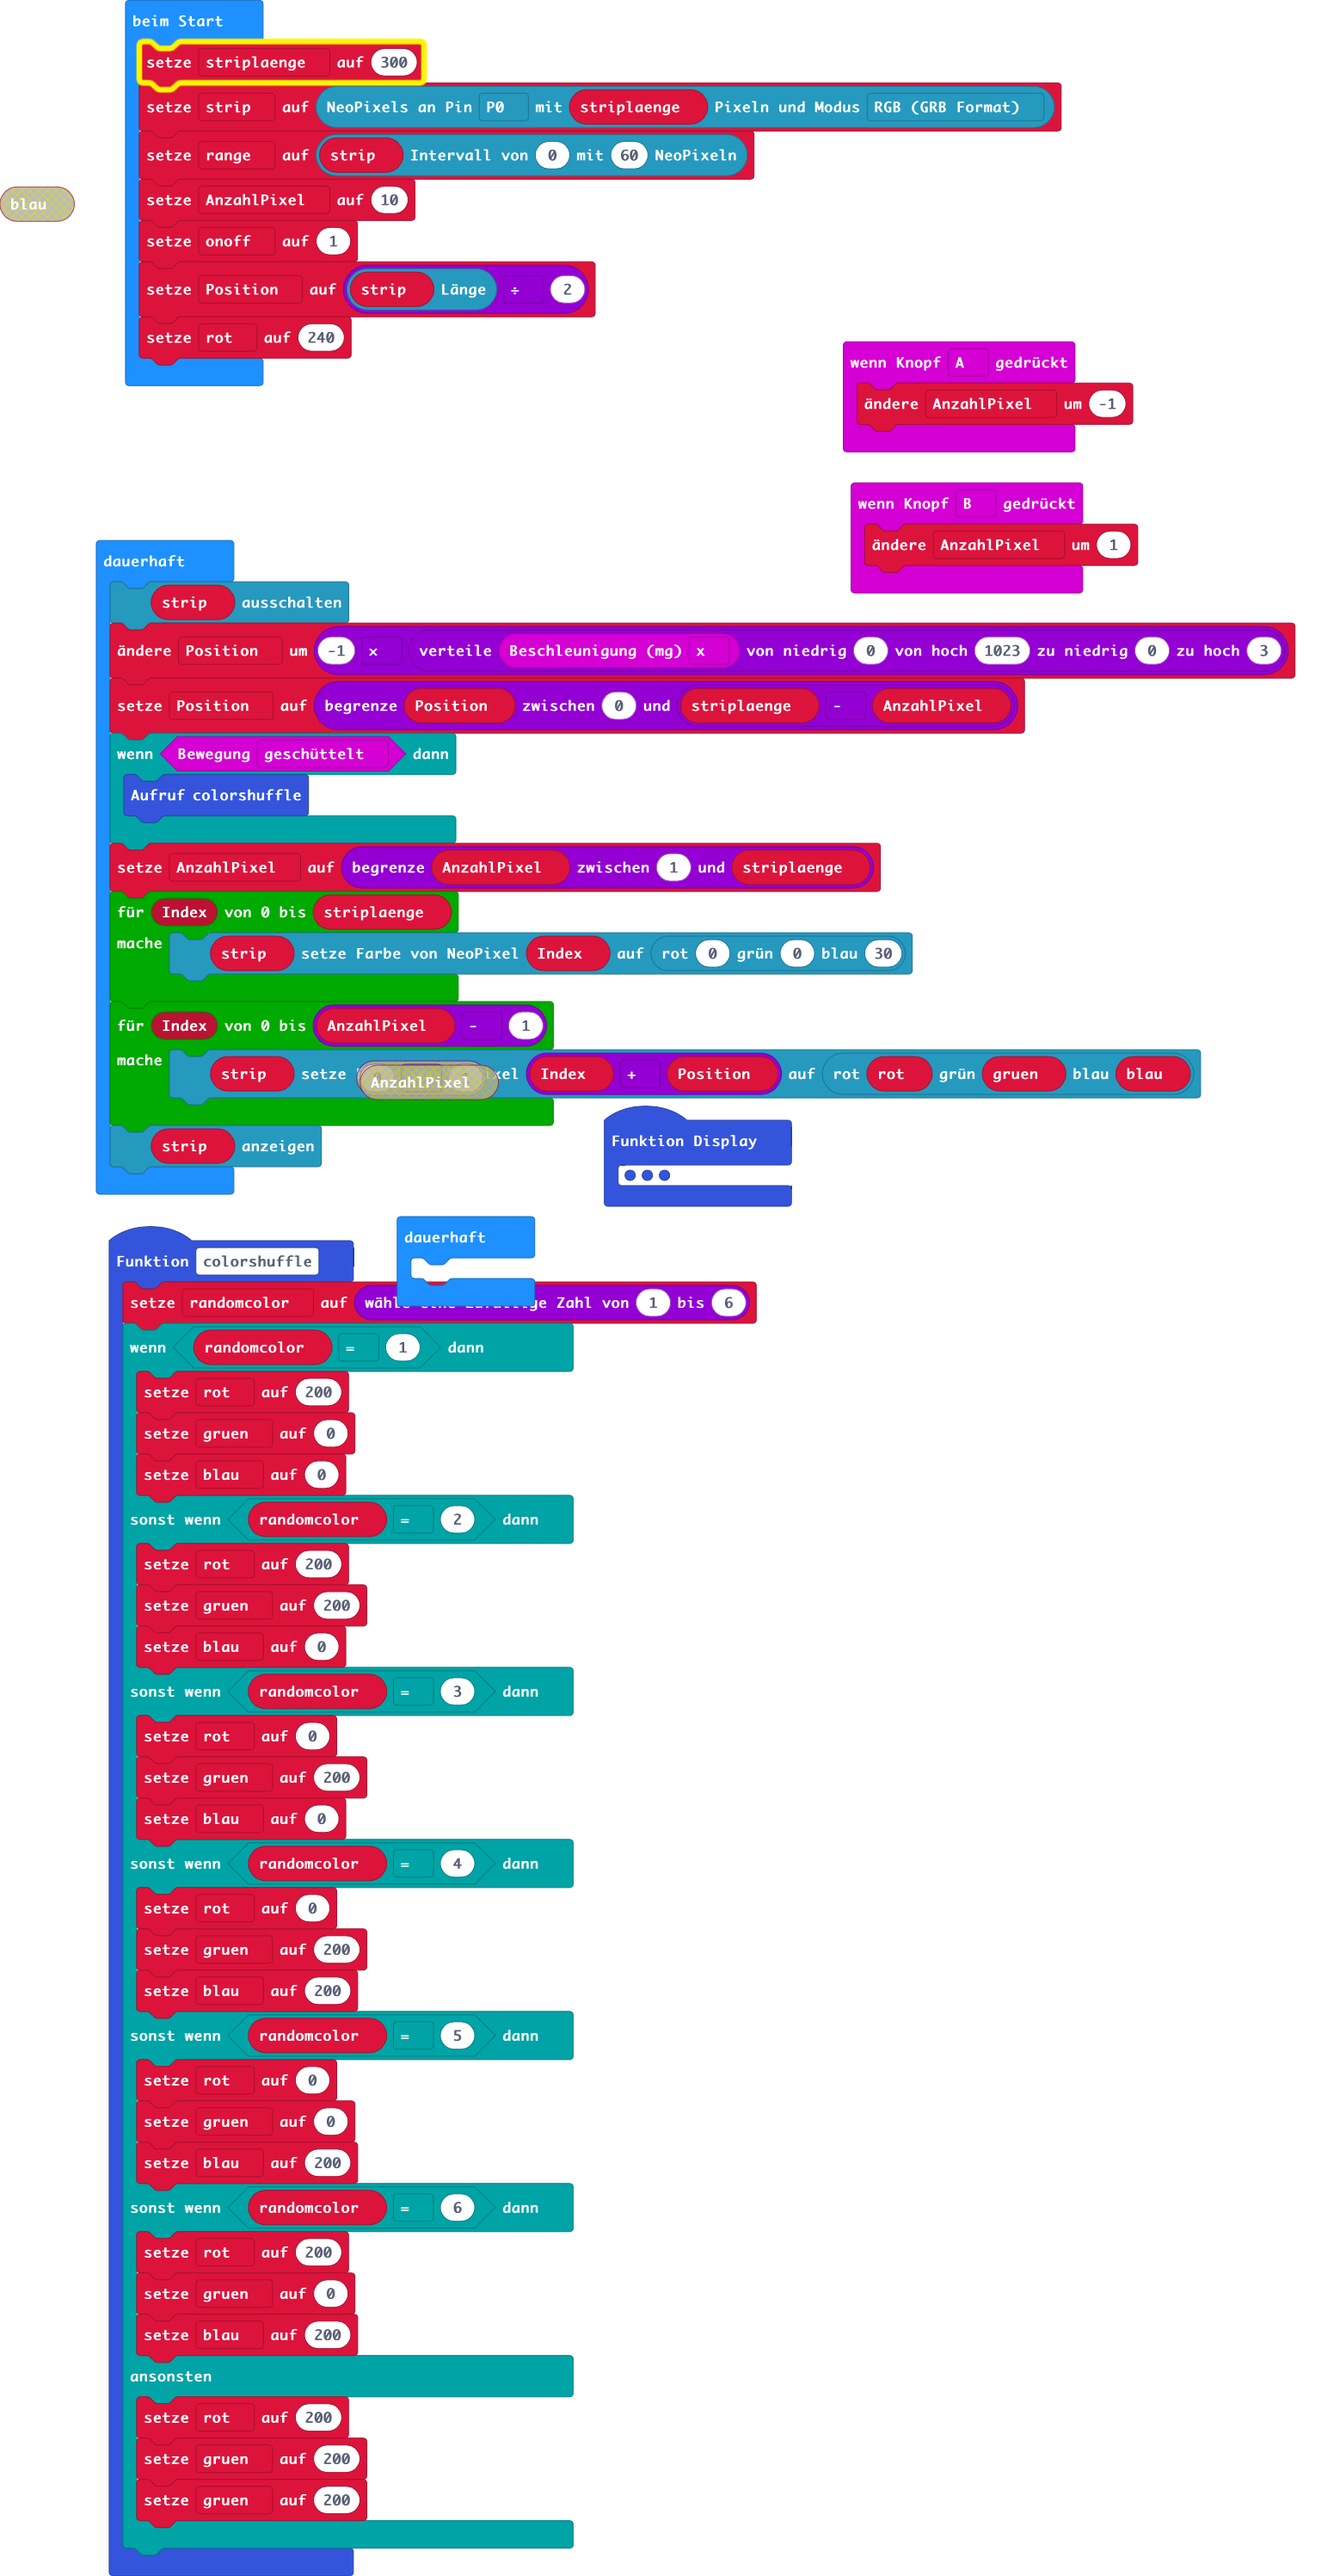
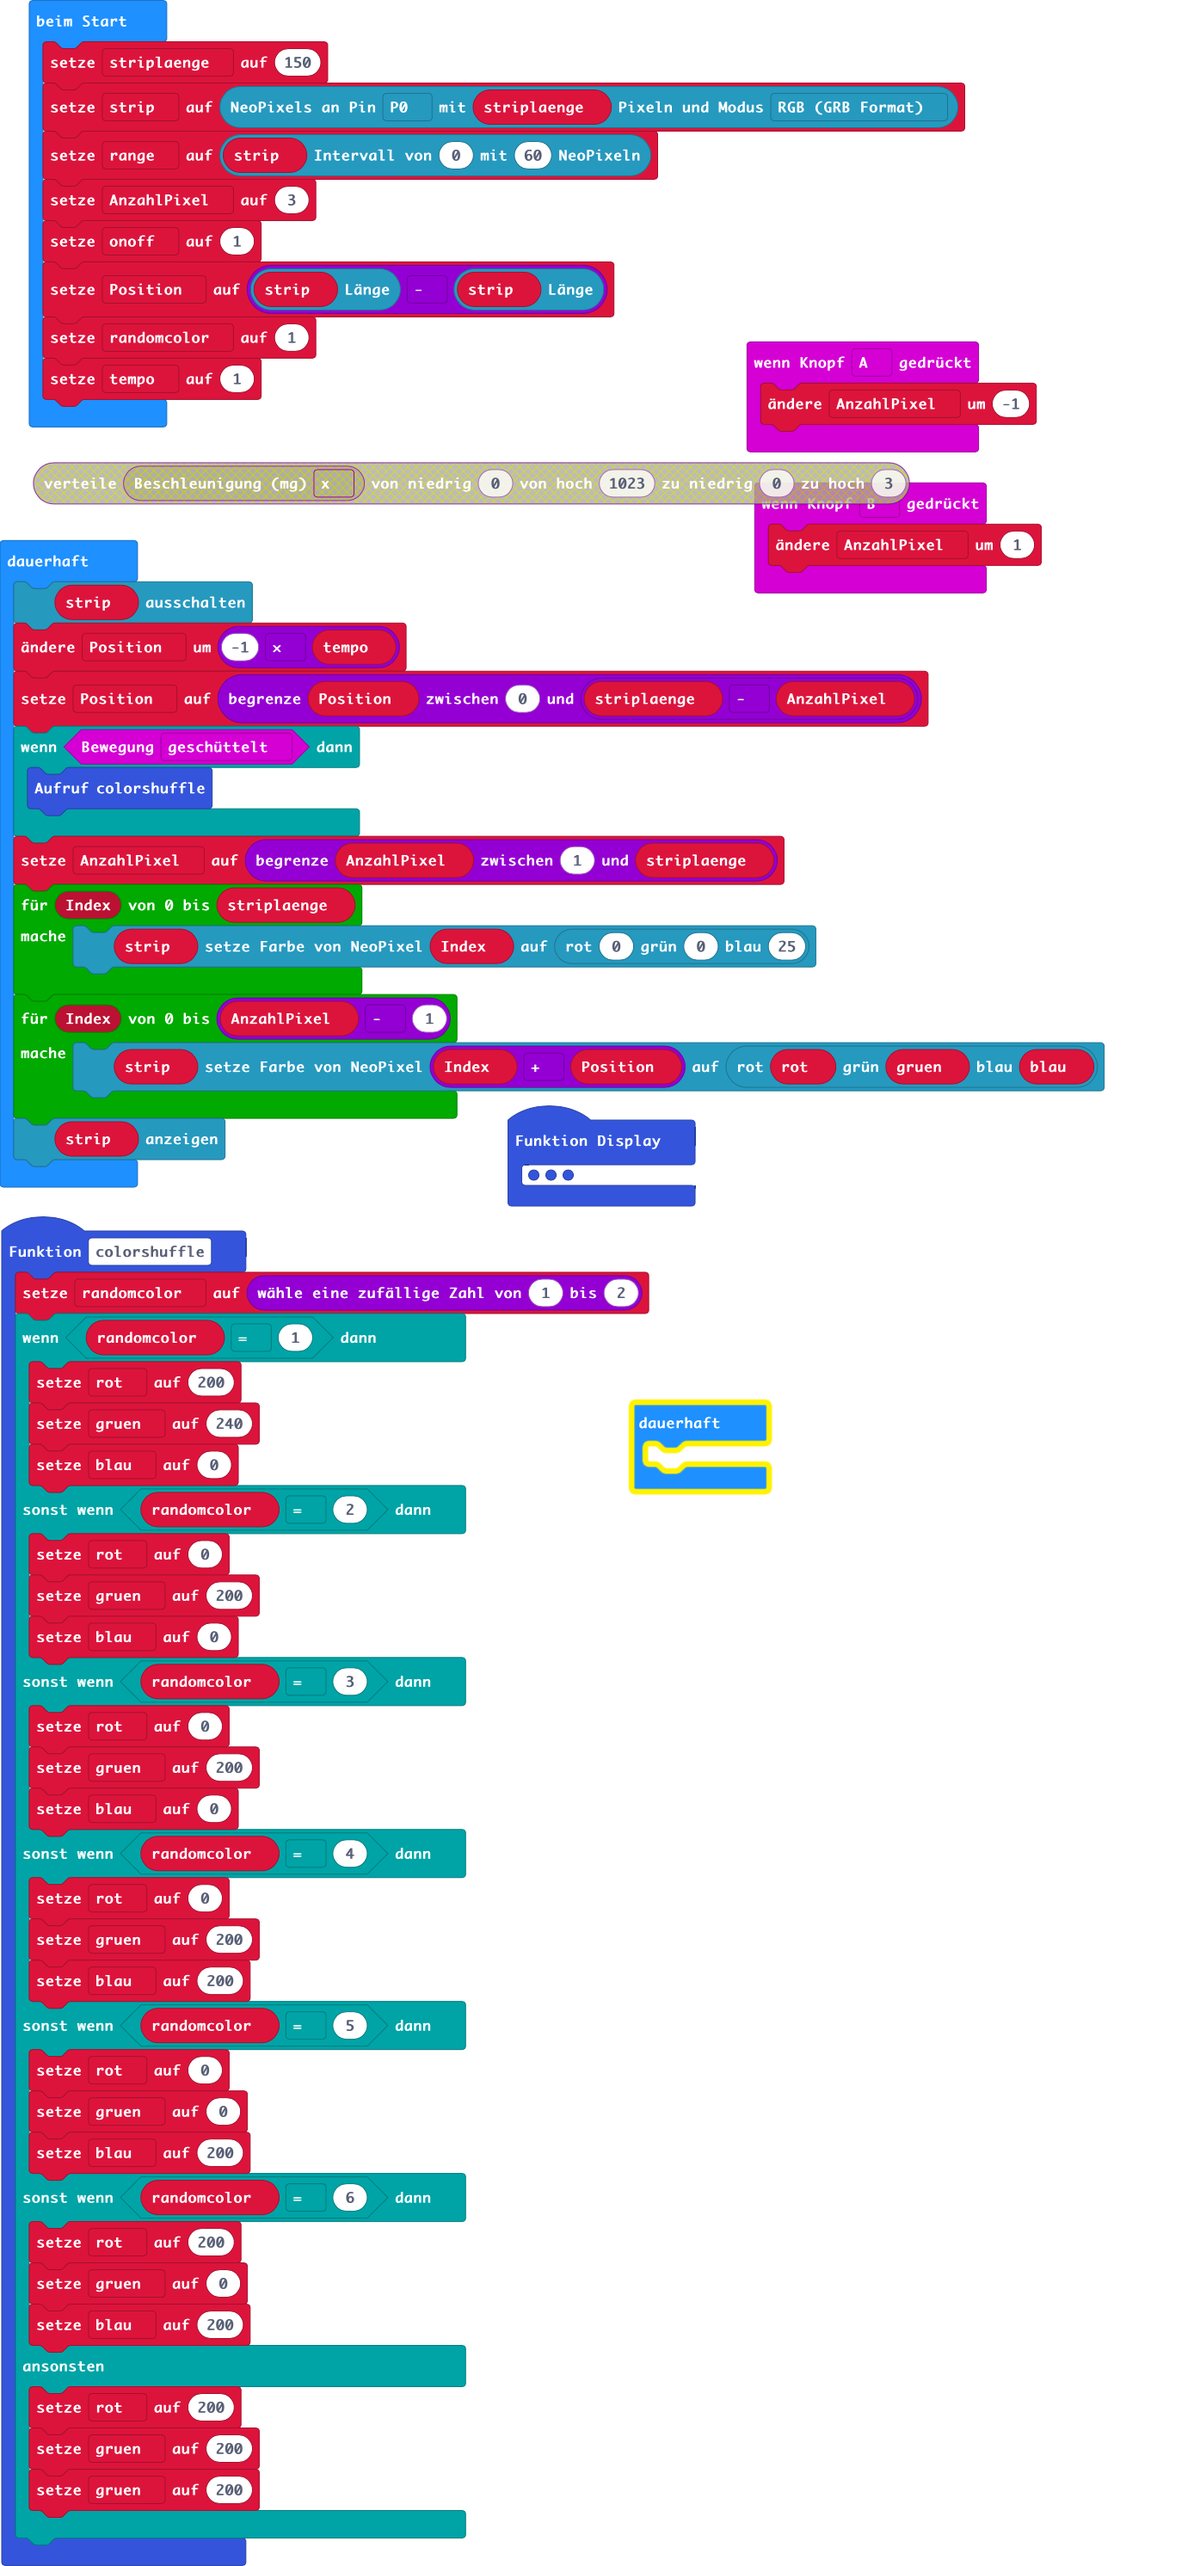
Aktualisiere pxt.json, main.blocks, main.ts

Changed region(s): [[0.0, 0.0, 0.9914, 1.0], [0.3718, 0.9665, 0.4337, 0.9977], [0.3718, 0.9041, 0.4337, 0.9353]]

diff --git a/main.ts b/main.ts
@@ -50,13 +50,13 @@ input.onButtonPressed(Button.B, function () {
     AnzahlPixel += 1
 })
 function colorshuffle () {
-    randomcolor = randint(1, 6)
+    randomcolor = randint(1, 2)
     if (randomcolor == 1) {
         rot = 200
-        gruen = 0
+        gruen = 240
         blau = 0
     } else if (randomcolor == 2) {
-        rot = 200
+        rot = 0
         gruen = 200
         blau = 0
     } else if (randomcolor == 3) {
@@ -83,28 +83,29 @@ function colorshuffle () {
 }
 let blau = 0
 let gruen = 0
-let randomcolor = 0
 let rot = 0
+let randomcolor = 0
 let Position = 0
 let onoff = 0
 let striplaenge = 0
-striplaenge = 300
+striplaenge = 150
 let strip = neopixel.create(DigitalPin.P0, striplaenge, NeoPixelMode.RGB)
 let range = strip.range(0, 60)
-let AnzahlPixel = 10
+let AnzahlPixel = 3
 onoff = 1
-Position = strip.length() / 2
-rot = 240
+Position = strip.length() - strip.length()
+randomcolor = 1
+let tempo = 1
 basic.forever(function () {
     strip.clear()
-    Position += -1 * Math.map(input.acceleration(Dimension.X), 0, 1023, 0, 3)
+    Position += -1 * tempo
     Position = Math.constrain(Position, 0, striplaenge - AnzahlPixel)
     if (input.isGesture(Gesture.Shake)) {
         colorshuffle()
     }
     AnzahlPixel = Math.constrain(AnzahlPixel, 1, striplaenge)
     for (let Index = 0; Index <= striplaenge; Index++) {
-        strip.setPixelColor(Index, neopixel.rgb(0, 0, 30))
+        strip.setPixelColor(Index, neopixel.rgb(0, 0, 25))
     }
     for (let Index = 0; Index <= AnzahlPixel - 1; Index++) {
         strip.setPixelColor(Index + Position, neopixel.rgb(rot, gruen, blau))
